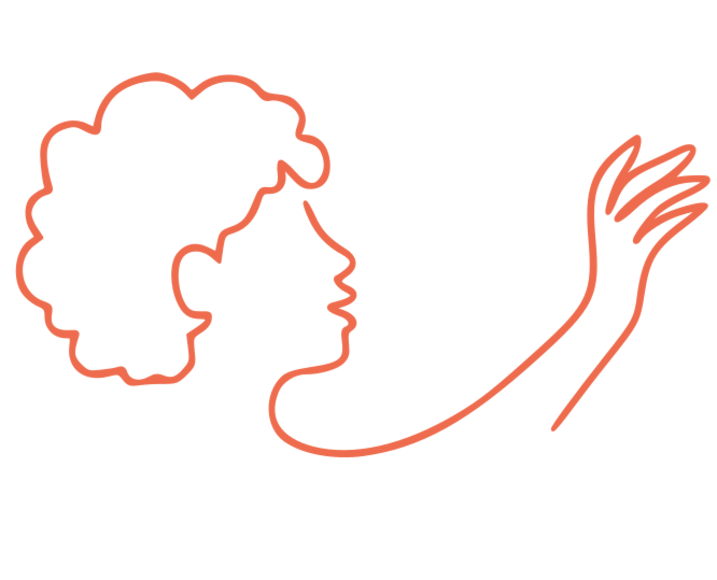
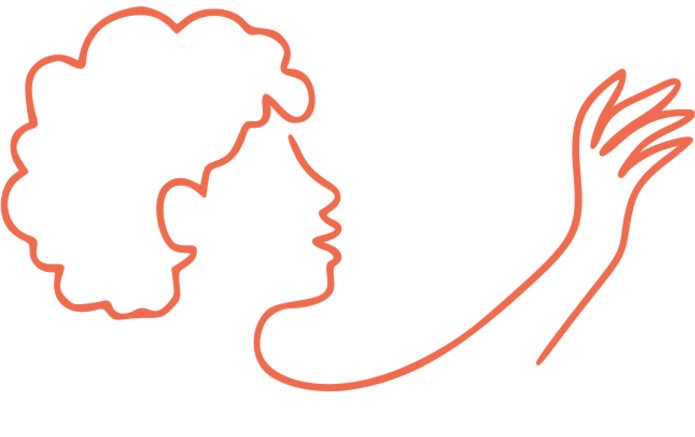
adjusted the images.

diff --git a/src/pages/Home.js b/src/pages/Home.js
@@ -57,7 +57,7 @@ export default class Home extends Component {
                     </StyledHeadingDiv>
                     <StyledBody>
                         <StyledBodyDiv style={{ maxWidth: 500, alignSelf: 'center', marginBottom: 20 }}>
-                            <StyledBodyLogo src={collection} alt="Digital Reference Ontology" />
+                            <StyledBodyLogo src={visualisation} alt="Digital Reference Ontology" />
                             <StyledBodyLink
                                 as="a"
                                 href={digitalReferenceURL}
@@ -87,7 +87,7 @@ export default class Home extends Component {
                                 <StyledBodyText>{CurationTxt}</StyledBodyText>
                             </StyledBodyDiv>
                             <StyledBodyDiv style={{ maxWidth: 500 }}>
-                                <StyledBodyLogo src={visualisation} alt="Ontology Visualisation" />
+                                <StyledBodyLogo src={collection} alt="Ontology Visualisation" />
                                 <StyledBodyLink to={ROUTES.PROJECT} style={{ marginTop: 16, display: 'block' }}>
                                     Ontology Visualisation
                                 </StyledBodyLink>
@@ -239,18 +239,18 @@ const StyledBodyLink = styled(Link)`
 `;
 
 const StyledBodyText = styled.p`
-    font-size: ${fontStyled.fontSize.NormalText};
+    font-size: calc(${fontStyled.fontSize.NormalText} * 1.15);
     font-family: ${fontStyled.fontFamily};
     text-align: justify;
     text-align-last: center;
     color: ${colorStyled.TEXTCOLOR};
 
     @media (max-width: ${MAX_WIDTH}) {
-        font-size: ${fontStyled.fontSize.MobileViewNormalText};
+        font-size: calc(${fontStyled.fontSize.MobileViewNormalText} * 1.15);
     }
 
     @media (min-width: ${MIN_WIDTH_FOR_MONITOR}) {
-        font-size: ${fontStyled.fontSize.DesktopViewNormalText};
+        font-size: calc(${fontStyled.fontSize.DesktopViewNormalText} * 1.15);
     }
 `;
 